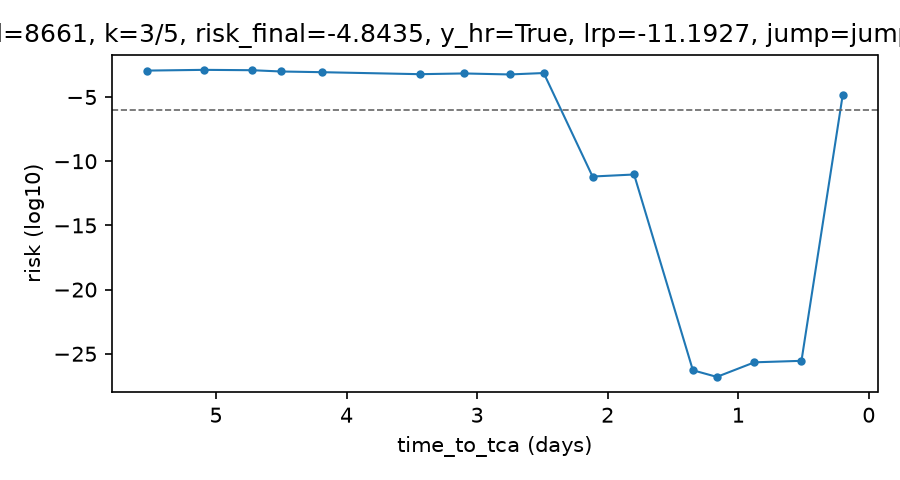
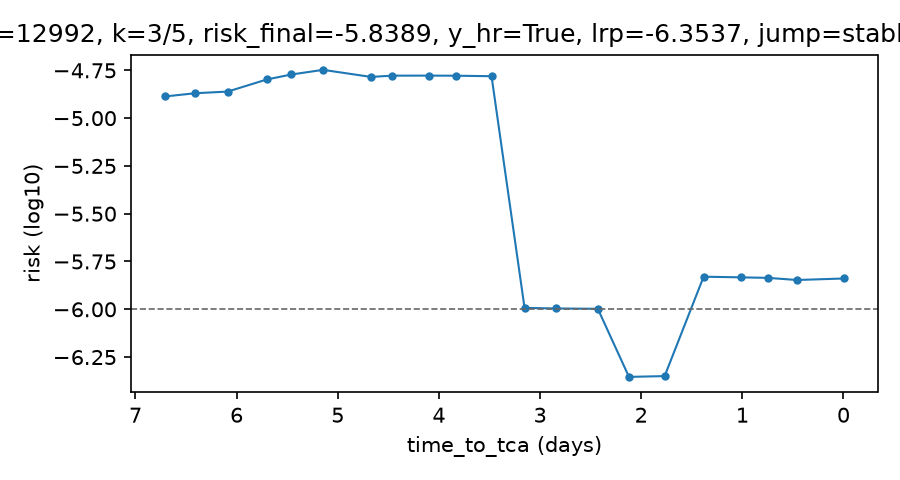
Record S9 regen decisions (pj-077–078) and refresh S7 atlas from iteration-2 preds.

diff --git a/docs/decisions/LEDGER.md b/docs/decisions/LEDGER.md
@@ -2,7 +2,7 @@
 
 ## Destination
 
-Project Proposal: **cerradas** (016–024). Ejecución S1–S6 + S4/S5/S7-decisions en `main` (KNN = mf-043). **W1 Progress Report:** pj-033..pj-043 accepted. **C2 (pj-044):** S8/S9/S10 **entran** (no cut); Pedro = S7 → S5 reopens → S9 → S8 + W2; Mario = S10 + S11; freeze Sentence Outline **dom 15 nov**. S7: pj-045..052 accepted. **S9:** pj-053..060 accepted; implementación S9 + deliverables W2. **S8:** pj-061..070 accepted (MLP+GRU ablation ready to implement). **Iteration 2 (S8 + S5 retrain):** pj-071..076 accepted (rf, gbdt, mlp, gru retrained with HR weights + recomputed c, w and n_estimators by nested 3-fold CV; S7/S9 regenerate; implementation pending). **S9:** pj-053..060 accepted. Pendiente W2: formato figura/tabla S9; ranking LMO vs event-CV (fog).
+Project Proposal: **cerradas** (016–024). Ejecución S1–S6 + S4/S5/S7-decisions en `main` (KNN = mf-043). **W1 Progress Report:** pj-033..pj-043 accepted. **C2 (pj-044):** S8/S9/S10 **entran** (no cut); Pedro = S7 → S5 reopens → S9 → S8 + W2; Mario = S10 + S11; freeze Sentence Outline **dom 15 nov**. S7: pj-045..052 accepted. **S9:** pj-053..060 accepted; implementación S9 + deliverables W2. **S8:** pj-061..070 accepted (MLP+GRU ablation ready to implement). **Iteration 2 (S8 + S5 retrain):** pj-071..076 accepted (rf, gbdt, mlp, gru retrained with HR weights + recomputed c, w and n_estimators by nested 3-fold CV; S7 regenerated; S9 regen pending pj-077+). **S9:** pj-053..060 accepted; S9 GBDT aligns to iteration-2 protocol (pj-077); lead-time t_cut=2 reuses bake-off GBDT (pj-078). Regen: cuts 3–4 + LMO under pj-077; t=2 GBDT copied. Pendiente W2: formato figura/tabla S9; ranking LMO vs event-CV (fog).
 
 ## Notes
 
@@ -187,6 +187,9 @@ Project Proposal: **cerradas** (016–024). Ejecución S1–S6 + S4/S5/S7-decisi
 | pj-074 | S8 epochs + weighted monitor | accepted | max epochs 100 (mlp, gru); patience 10; weighted-MSE monitor; GRU → 200 if median best epoch > 90; supersedes pj-066 on epochs/monitor | [pj-074-s8-epochs-and-weighted-monitor.md](./pj-074-s8-epochs-and-weighted-monitor.md) |
 | pj-075 | Iteration 2 reporting | accepted | Final iteration only, stated as second, with a few figures (which: fog) | [pj-075-iteration-2-reporting.md](./pj-075-iteration-2-reporting.md) |
 | pj-076 | S8 weighted-loss normalization | accepted | Weighted mean Σwℓ/Σw (training loss and monitor) | [pj-076-s8-weighted-mean-loss-normalization.md](./pj-076-s8-weighted-mean-loss-normalization.md) |
+| pj-077 | S9 GBDT iteration-2 protocol | accepted | Lead-time + LMO GBDT use pj-072/073 (weights, c(w), nested w+n); supersedes pj-056/059 GBDT hparam clause; linears unchanged | [pj-077-s9-gbdt-iteration-2-protocol.md](./pj-077-s9-gbdt-iteration-2-protocol.md) |
+| pj-078 | S9 lead-time t=2 reuse GBDT | accepted | At t_cut=2 reuse results/gbdt.json (+ preds); no retrain; cuts 3–4 and LMO still regenerate under pj-077 | [pj-078-s9-leadtime-t2-reuse-gbdt.md](./pj-078-s9-leadtime-t2-reuse-gbdt.md) |
+| — | S9 prior artifacts before overwrite | auto-trivial | AI (engineering) | Copy `results/s9_leadtime.*` and `results/s9_lmo.json` aside (e.g. `results/iter1/`) before regen overwrites them. Reason: same pattern as iteration-1 model preserve | — |
 | — | Iteration-1 outputs preserved | auto-trivial | AI (engineering) | Copy `results/{rf,gbdt,mlp,gru}.json` and `preds/{rf,gbdt,mlp,gru}.parquet` to `results/iter1/` and `preds/iter1/` before the rerun overwrites the slugs. Reason: pj-075 quotes a few first-iteration figures | — |
 | — | S8 implementation details | auto-trivial | AI (engineering) | `src/models/neural.py`, `scripts/run_s8.py`; GRU channels `risk, miss_distance, relative_speed, t_weighted_rms, time_to_tca` + `c_object_type` one-hot of the last usable CDM repeated on each step (unscaled); steps in time order, last valid = closest to TCA; inner 80/20 split shuffled with seed `(s_r, fold)`; imputer, scaler and floor `c` fit on the 80% fitting part only; tabular preprocessing = `linear.make_preprocessor` (mf-010); bootstrap as S4 (`bootstrap_report`); torch 2.15.0 CPU. Reason: details pj-063/066/067 left to implementation | — |
 | — | S7 atlas module paths | auto-trivial | AI (engineering) | `src/atlas/`, `scripts/run_s7_atlas.py`, case list + empty-pool record under `results/atlas_*`. Reason: layout only | — |
@@ -418,7 +421,9 @@ Every modeling parameter the implementation needs. Library defaults must be list
 | S9 lead-time usable CDM threshold | `time_to_tca ≥ t_cut` (replaces `TTC_MIN=2` only inside S9 runs) | [pj-055](./pj-055-s9-lead-time-features-and-labels.md) |
 | S9 lead-time features | same v1 columns as S3; labels `risk_final` / `y_hr` unchanged | [pj-055](./pj-055-s9-lead-time-features-and-labels.md) |
 | S9 lead-time curve rows | LRP; GBDT; S4 = argmin L unclipped among {ols, ridge, lasso} per `t_cut` | [pj-056](./pj-056-s9-lead-time-model-rows.md) |
-| S9 lead-time hyperparameters | re-run S5 GBDT grid + S4 α selection (mf-013) at each `t_cut`; no freeze from t=2 | [pj-056](./pj-056-s9-lead-time-model-rows.md) |
+| S9 lead-time hyperparameters | GBDT: at `t_cut=2` reuse bake-off (`pj-078`); at `t_cut∈{3,4}` iteration-2 nested `(w, n_estimators)` + `c(w)` (`pj-072`/`073`); S4 α (mf-013) unchanged | [pj-056](./pj-056-s9-lead-time-model-rows.md), [pj-077](./pj-077-s9-gbdt-iteration-2-protocol.md), [pj-078](./pj-078-s9-leadtime-t2-reuse-gbdt.md) |
+| S9 lead-time GBDT at t_cut=2 | reuse `results/gbdt.json` / `preds/gbdt.parquet`; do not retrain in S9 | [pj-078](./pj-078-s9-leadtime-t2-reuse-gbdt.md) |
+| S9 LMO GBDT hyperparameters | same iteration-2 protocol as lead-time cuts 3–4; re-select each fold | [pj-059](./pj-059-s9-lmo-model-rows.md), [pj-077](./pj-077-s9-gbdt-iteration-2-protocol.md) |
 | S9 lead-time S4 tie-break | equal L unclipped → higher F₂; then slug lexicographic | [pj-056](./pj-056-s9-lead-time-model-rows.md) |
 | S9 lead-time primary metric (y-axis) | L unclipped (revision to F₂ allowed per pj-057) | [pj-057](./pj-057-s9-lead-time-curve-y-metric.md) |
 | S9 lead-time secondary metrics in output | F₂, MSE_HR, L clipped/unclipped per pj-007 | [pj-057](./pj-057-s9-lead-time-curve-y-metric.md) |

diff --git a/docs/decisions/pj-077-s9-gbdt-iteration-2-protocol.md b/docs/decisions/pj-077-s9-gbdt-iteration-2-protocol.md
@@ -1,0 +1,46 @@
+# pj-077. S9 GBDT — iteration-2 training protocol
+
+- **Status:** accepted
+- **Date:** 2026-11-21
+- **Tags:** modeling | hyperparameters | evaluation
+- **Decided by:** Pedro
+- **AI involvement:** options + critique
+
+## Context
+
+`pj-071` requires regenerating S9 after the S5/S8 iteration-2 retrain. S9 does not consume `preds/*.parquet`; it retrains GBDT (and S4 linears) at each lead-time cut and each leave-mission-out fold (`pj-056`, `pj-059`). The current S9 code path still uses iteration-1 selection: `n_estimators` only via `pj-024`/`pj-025`, floor `c` at `w = 1` (`pj-026`), no HR sample weights. Iteration 2 defines HR weights, `c(w)`, and nested selection of `w` (and, for trees, `n_estimators`) in `pj-072`/`pj-073`.
+
+## Mathematical framing
+
+Unchanged task: regress `risk_final`, alarm at −6, evaluate with the S1 dashboard (`pj-007`). What changes for the S9 GBDT row is the training objective weighting and the hyperparameter selection unit: same as the main bake-off GBDT under iteration 2.
+
+## Options considered
+
+1. **Iteration-2 protocol in S9** — assumes S9 GBDT should learn with the same criterion as `results/gbdt.json`; consequence: at each `t_cut` / LMO fold, select `(w, n_estimators)` by nested CV (`pj-073`), fit with HR weights and floor `c(w)` (`pj-072`).
+2. **Keep iteration-1 protocol in S9** (`pj-056`/`pj-025`) — assumes the curve/LMO measure the older tree; consequence: S9 and the main bake-off are different estimators.
+3. **Other / none**
+
+## Decision
+
+Chose **option 1**. Both the lead-time curve and LMO use the iteration-2 GBDT protocol. Linear rows stay as in `pj-056`/`pj-059` (S4 unchanged by iteration 2). Supersedes the GBDT hyperparameter clause of `pj-056`/`pj-059` that pointed only at `pj-024`/`pj-025`.
+
+## Rationale (developer's own words)
+
+With all the new pieces, because those models are better prepared.
+
+## Checks raised
+
+- `pj-056`/`pj-059` cite S5 selection via `pj-024`/`pj-025` → superseded for S9 GBDT only; LRP and linear rows unchanged → developer confirmed option 1.
+- At `t_cut ∈ {3, 4}` fewer HR events make nested selection of `w` noisier → recorded; developer confirmed.
+- Runtime rises because each point/fold runs the joint `(w, n)` search → recorded; developer confirmed.
+
+## Expected behavior and validation
+
+- Lead-time and LMO artifacts store chosen `w` and `n_estimators` (and floor `c`) per cut/fold for GBDT.
+- S4 α selection and linear pick rules remain `mf-013` / `pj-056`.
+
+## Consequences
+
+- Parameter registry: S9 GBDT hyperparameters follow `pj-072`/`pj-073`.
+- `t_cut = 2` GBDT reuse vs retrain: resolved in `pj-078` (reuse bake-off).
+- Not doing: changing linear protocol; adding RF/MLP/GRU rows to S9.

diff --git a/docs/decisions/pj-078-s9-leadtime-t2-reuse-gbdt.md b/docs/decisions/pj-078-s9-leadtime-t2-reuse-gbdt.md
@@ -1,0 +1,47 @@
+# pj-078. S9 lead-time at t_cut = 2 — reuse bake-off GBDT
+
+- **Status:** accepted
+- **Date:** 2026-11-21
+- **Tags:** evaluation | modeling
+- **Decided by:** Pedro
+- **AI involvement:** options + critique; opinion requested (for/against arguments)
+
+## Context
+
+`pj-077` aligns S9 GBDT training with the iteration-2 protocol (`pj-072`/`pj-073`). At `t_cut = 2` the lead-time cohort matches the main S1 bake-off (8892 events). Iteration-2 GBDT metrics and OOF predictions already exist in `results/gbdt.json` and `preds/gbdt.parquet`. Cuts `t_cut ∈ {3, 4}` and leave-mission-out use different cohorts or splits and are not covered by that artifact.
+
+## Mathematical framing
+
+The lead-time point at `t_cut = 2` for the GBDT series is defined to be the same estimator and the same out-of-fold predictions as the main bake-off GBDT row, not an independent nested-CV retrain inside the S9 script.
+
+## Options considered
+
+1. **Reuse bake-off GBDT at t_cut = 2** — assumes that point is the same experiment as the main table; no GBDT retrain there; cuts 3–4 and LMO still regenerate under `pj-077`.
+2. **Retrain t_cut = 2 in S9 and require numerical match** — same mathematics, two runs; equality is a test.
+3. **Retrain t_cut = 2 without requiring match** — same recipe, independent run; small differences possible.
+4. **Other / none**
+
+## Decision
+
+At `t_cut = 2` on the lead-time curve, reuse the bake-off GBDT from `results/gbdt.json` (and matching preds); do not retrain that point. Cuts 3 and 4 and LMO still regenerate under `pj-077`.
+
+## Rationale (developer's own words)
+
+Simple, it makes sense, it saves compute.
+
+## Checks raised
+
+- The curve at two days is no longer an independent check of the bake-off → accepted (reuse is intentional).
+- LMO and `t_cut ∈ {3, 4}` are not saved by this choice → recorded.
+
+## Expected behavior and validation
+
+- `results/s9_leadtime.json` at `t_cut = 2` reports GBDT metrics taken from `results/gbdt.json` (same L unclipped / dashboard fields as stored there).
+- Artifacts for `t_cut ∈ {3, 4}` and LMO are produced by a fresh run under `pj-077`.
+- Linear rows remain selected per `pj-056` (still computed in S9).
+
+## Consequences
+
+- Parameter registry: S9 lead-time GBDT at `t_cut = 2` = bake-off reuse.
+- Overwriting previous S9 JSON/PNG is an engineering detail at implementation.
+- Not doing: skipping regen of cuts 3–4 or LMO.

diff --git a/docs/records/project.md b/docs/records/project.md
@@ -1,0 +1,51 @@
+---
+legacy: [docs/decisions]
+default-branch: main
+---
+# Project
+
+Course ML project (BAM, IE University): early collision-risk forecasting from ESA Conjunction Data Messages. Team Pedro + Mario; deliverables are paper-style reports + oral. Stack: Python, scikit-learn, PyTorch. Official test stays unused for model selection. Deadline pressure: W2 Sentence Outline freeze 2026-11-15; Final Report 2026-11-25; oral late November.
+
+## Language
+
+- Chat: each person's profile
+- Repo (records, code comments, docs): English
+
+## Ownership
+
+| Domain | Mode | Notes |
+|--------|------|-------|
+| framing | own | objective, targets, unit of analysis, success bar |
+| data & splits | own | inclusion, folds, CV, leakage |
+| preprocessing & features | own | scaling, imputation, encoding, feature contracts |
+| model & loss | own | family, architecture, loss; includes PyTorch ablation design |
+| hyperparameters & optimization | own | grids, defaults that affect fit |
+| evaluation | own | metrics, thresholds, baselines, bootstrap protocol |
+| reproducibility | own | seeds, determinism |
+| interpretation | own | claims allowed in reports |
+| architecture | advise | module boundaries, I/O layout |
+| testing | advise | what to test, fixtures |
+| dependencies | advise | adding libraries (e.g. torch) |
+| engineering hygiene | auto | naming, CLI, plot style matching repo |
+| research question & claims | own | RQ wording, what is claimed vs not |
+| method (writing) | own | how methods are described |
+| structure (writing) | advise | outline, section budget |
+| format (writing) | auto | LaTeX/template mechanics |
+
+When unsure, prefer own over advise, and advise over auto. `people/<h>.md` may tighten a mode for one person.
+Everyone defends every own decision: yes
+
+## Sources
+
+- `docs/plan-reparto.md` — scope IDs S1–S11, ownership, phases
+- `docs/decisions/` — legacy ADRs + LEDGER (read-only; stop appending)
+- `docs/dependencias-y-reuniones.md` — meeting decisions / go-no-go history
+- ESA Kelvins / Zenodo dataset path in README — data location and license
+- ADR `010` — PyTorch is fair ablation, not primary claim
+- `pj-044` — S8/S9/S10 in C2 scope; Pedro owns S8/S9; Mario S10+S11
+
+## Milestones
+
+- 2026-11-15 — W2 Sentence Outline freeze (no new experimental scope after)
+- 2026-11-25 — W3 Final Report
+- 2026-11-28 — Oral (approx.; slides 26–28 Nov)

diff --git a/results/atlas_captions.md b/results/atlas_captions.md
@@ -1,10 +1,10 @@
-- C1: event_id=8661, k=3/5, risk_final=-4.8435, y_hr=True, lrp=-11.1927, jump=jump-up, delta=6.3492
+- C1: event_id=12992, k=3/5, risk_final=-5.8389, y_hr=True, lrp=-6.3537, jump=stable-high, delta=0.5148
 - C2: event_id=168, k=5/5, risk_final=-5.0200, y_hr=True, lrp=-4.9370, jump=stable-high, delta=-0.0830
 - C3: event_id=12175, k=4/5, risk_final=-4.6021, y_hr=True, lrp=-6.2480, jump=jump-up, delta=1.6460
 - C4: event_id=8767, k=3/5, risk_final=-2.6880, y_hr=True, lrp=-3.5722, jump=stable-high, delta=0.8842
 - C5: event_id=5343, k=5/5, risk_final=-5.7496, y_hr=True, lrp=-30.0000, jump=jump-up, delta=24.2504
 - C6: event_id=7465, k=5/5, risk_final=-30.0000, y_hr=False, lrp=-1.8292, jump=jump-down, delta=-28.1708
-- C7: event_id=7404, k=3/5, risk_final=-30.0000, y_hr=False, lrp=-4.6668, jump=jump-down, delta=-25.3332
+- C7: event_id=12077, k=3/5, risk_final=-30.0000, y_hr=False, lrp=-4.0152, jump=jump-down, delta=-25.9848
 - C8: event_id=2563, k=5/5, risk_final=-4.1880, y_hr=True, lrp=-6.3229, jump=jump-up, delta=2.1350
 - O1: event_id=9051, k=5/5, risk_final=-3.7540, y_hr=True, lrp=-4.4566, jump=stable-high, delta=0.7026
 - O2: empty pool (pj-052).

diff --git a/docs/records/people/pj.md b/docs/records/people/pj.md
@@ -1,0 +1,9 @@
+---
+handle: pj
+name: Pedro
+---
+## Stricter modes for me
+
+None.
+
+Owner of S1 protocol lineage, S3 features, S5 trees, S7 atlas, S8 PyTorch, S9 lead-time/LMO, and W2 integration per `pj-044` / `plan-reparto`.
